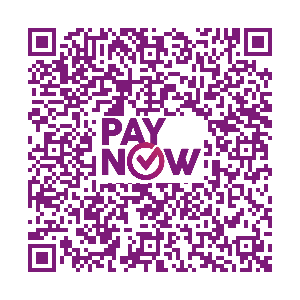
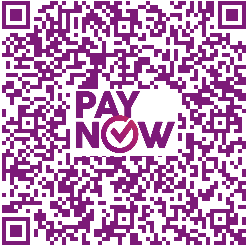
Updated QR Codes
Updated Blossom Seeds Logo
Updated slideshow images
Updated YouTube videos
Improved the UI of tab navigation

diff --git a/src/components/story/story.vue b/src/components/story/story.vue
@@ -28,7 +28,20 @@
         >
 
         <!-- Slides with image only -->
-        <b-carousel-slide img-src="https://i.imgur.com/S4v6lZE.jpg"><p>President Halimah Yacob handing out masks to Blossom Seeds' beneficiaries, supported by Youth Corps Singapore</p></b-carousel-slide>
+        <b-carousel-slide img-src="https://i.imgur.com/IsIjeE9.jpg"><p>President Halimah engaging in small talk with beneficiaries</p></b-carousel-slide>
+        <b-carousel-slide img-src="https://i.imgur.com/TF8SwHM.jpg"></b-carousel-slide>
+        <b-carousel-slide img-src="https://i.imgur.com/FlQADY7.jpg"></b-carousel-slide>
+        <b-carousel-slide img-src="https://i.imgur.com/ByqJdCj.jpg"></b-carousel-slide>
+        <b-carousel-slide img-src="https://i.imgur.com/iaBREnTh.jpg"></b-carousel-slide>
+        <b-carousel-slide img-src="https://i.imgur.com/gXXzZ4Gh.jpg"></b-carousel-slide>
+        <b-carousel-slide img-src="https://i.imgur.com/stkcyfmh.jpg"></b-carousel-slide>
+        <b-carousel-slide img-src="https://i.imgur.com/6los8pfh.jpg"></b-carousel-slide>
+        <b-carousel-slide img-src="https://i.imgur.com/INAQ2mEh.jpg"></b-carousel-slide>
+        <b-carousel-slide img-src="https://i.imgur.com/LudW996h.jpg"></b-carousel-slide>
+        <b-carousel-slide img-src="https://i.imgur.com/Zn2SFtbh.jpg"></b-carousel-slide>
+        <b-carousel-slide img-src="https://i.imgur.com/bWPWD57h.jpg"></b-carousel-slide>
+        <b-carousel-slide img-src="https://i.imgur.com/cGR94SKh.jpg"></b-carousel-slide>
+        <!-- <b-carousel-slide img-src="https://i.imgur.com/S4v6lZE.jpg"><p>President Halimah Yacob handing out masks to Blossom Seeds' beneficiaries, supported by Youth Corps Singapore</p></b-carousel-slide>
         <b-carousel-slide img-src="https://i.imgur.com/774NWHz.jpg"><p>Beneficiary expressing gratitude to President Halimah for the gift of masks</p></b-carousel-slide>
         <b-carousel-slide img-src="https://i.imgur.com/9lZqaji.jpg"><p>Blossom Seeds Volunteers taking a selfie with President Halimah</p></b-carousel-slide>
         <b-carousel-slide img-src="https://i.imgur.com/tV50WJ8.jpg"><p>Group photo of Youth Corps Singapore members who came to help out</p></b-carousel-slide>
@@ -36,7 +49,7 @@
         <b-carousel-slide img-src="https://i.imgur.com/aNYWmzy.jpg"><p>Senior Management express heartfelt gratitude to President Halimah for gracing the event</p></b-carousel-slide>
         <b-carousel-slide img-src="https://i.imgur.com/MFQNaBN.jpg"><p>President Halimah engaging in small talk with beneficiaries</p></b-carousel-slide>
         <b-carousel-slide img-src="https://i.imgur.com/Kwjulno.jpg"><p>Blossom Seeds celebrates the successful handing out of masks to the elderly</p></b-carousel-slide>
-        <b-carousel-slide img-src="https://i.imgur.com/kRqqgVW.jpg"><p>Distribution of daily necessities by the community to the the elderly</p></b-carousel-slide>
+        <b-carousel-slide img-src="https://i.imgur.com/kRqqgVW.jpg"><p>Distribution of daily necessities by the community to the the elderly</p></b-carousel-slide> -->
         </b-carousel>
       </div>
         <div id="GOH">
@@ -79,7 +92,11 @@
         <div id='title'>Our Story<br>
         <img src='../../assets/3dscia.com.url.png' id = 'underline'></div>
         <div id='video'>
-          <!-- <iframe id="videoiframe" width="80%" src="https://www.youtube.com/embed/23riEOmDOgM" frameborder="0" allowfullscreen></iframe> -->
+          <!-- Note: Video should be preprocessed for streaming: https://superuser.com/a/438471/462430 -->
+          <!-- <iframe src="https://drive.google.com/file/d/11Sa--vhcddjtZyXt8foKdDXnfLK4EJK2/preview" width="640" height="480"></iframe> -->
+          <!-- <iframe id="videoiframe" width="560" height="315" src="https://www.youtube.com/embed/gYQUVp47gZs" frameborder="0" allow="accelerometer; autoplay; encrypted-media; gyroscope; picture-in-picture" allowfullscreen></iframe> -->
+          <!-- <iframe id="videoiframe" width="560" height="315" src="https://www.youtube.com/embed/E86ygqR79lU" frameborder="0" allow="accelerometer; autoplay; encrypted-media; gyroscope; picture-in-picture" allowfullscreen></iframe> -->
+          <iframe width="560" height="315" src="https://www.youtube.com/embed/videoseries?list=PL7lDpUpxcvmUhW1Wru1BByUkX_wknoRFV" frameborder="0" allow="accelerometer; autoplay; encrypted-media; gyroscope; picture-in-picture" allowfullscreen></iframe>
         </div>
       </div>
       <div id='descriptions'>
@@ -155,12 +172,13 @@ export default {
   //   source code & deploy again, rather than using JavaScript on client's
   //   browser to recompute the video src.
   // mounted: function () {
-  //   var now = new Date();
+  //   // var now = new Date();
   //   // //Change the date here, add more dates if required
-  //   var deadline = new Date("August 20, 2020 00:00:00");
-  //   if (now.valueOf() >= deadline.valueOf()) {
+  //   // var deadline = new Date("August 20, 2020 00:00:00");
+  //   // if (now.valueOf() >= deadline.valueOf()) {
+  //   if (Math.random() > 0.5) {
   //     var videoIframeTag = document.getElementById("videoiframe");
-  //     videoIframeTag.src = "https://www.youtube.com/embed/23riEOmDOgM";
+  //     videoIframeTag.src = "https://www.youtube.com/embed/E86ygqR79lU";
   //   }
   // },
 }
@@ -264,7 +282,7 @@ a {
   position: relative;
   width: 100%;
   height: 0;
-  padding-bottom: 56.25%; /* The height of the item will now be 56.25% of the width. */
+  padding-bottom: 45%;
 }
 #video iframe {
   position: absolute;

diff --git a/src/components/Navbar.vue b/src/components/Navbar.vue
@@ -1,13 +1,15 @@
 <template>
     <div class="headerStyle">
-        <nav>
-            <img alt="Blossom Seeds Logo" src="../assets/blossom-logo.png" width="200" height="172">
-            <div class="header-tabs">
-                <span class="header-tab"><router-link to="/story"><a>Our Story</a></router-link></span>            
-                <span class="header-tab" id='donate'><router-link to="/donate"><a>Donate</a></router-link></span>
-                <span class="header-tab"><router-link to="/contact"><a>Contact Us</a></router-link></span>
-            </div>
-        </nav>
+        <img id="logo" alt="Blossom Seeds Logo" src="../assets/blossom-logo.png" />
+        <div id="header-nav">
+            <nav>
+                <div class="header-tabs">
+                    <span class="header-tab"><router-link to="/story"><a>Our Story</a></router-link></span>
+                    <span class="header-tab"><router-link to="/donate"><a>Donate</a></router-link></span>
+                    <span class="header-tab"><router-link to="/contact"><a>Contact Us</a></router-link></span>
+                </div>
+            </nav>
+        </div>
     </div>
 </template>
 
@@ -25,21 +27,33 @@ export default {
 .headerStyle {
     overflow: hidden;
     background: lightgray;
-    padding: 20px;
+    padding: 3%;
     text-align: center;
     align-content: center;
     padding-bottom: 10px;
 }
 
-img {
-    float: left;
+#header-nav {
+    vertical-align: bottom;
 }
 
-/** header tabs */
-span {
-    padding: 3%;
-    padding-top: 70px;
-    display: inline-block;
+.header-tabs {
+    margin: auto;
+    width: 70%;
+    transform: translate(15%, 0%);
+    vertical-align: bottom;
+    /* border: 3px solid green; */
+    padding: 10px;
+}
+
+.header-tab {
+    padding-left: 5%;
+    padding-right: 5%;
+}
+
+#logo {
+    float: left;
+    width: 15%;
 }
 
 a {

diff --git a/src/components/donate/options.vue b/src/components/donate/options.vue
@@ -6,9 +6,10 @@
         <div id="options">
             <nav>
                 <div class="donation-tabs">
-                    <span class="donation-tab"><router-link to="/paynow"><a>PayNow</a></router-link></span>            
-                    <span class="donation-tab"><router-link to="/grabpay"><a>GrabPay</a></router-link></span>
+                    <span class="donation-tab"><router-link to="/paynow"><a>PayNow</a></router-link></span>
                     <span class="donation-tab"><router-link to="/favepay"><a>favePay</a></router-link></span>
+                    <span class="donation-tab"><router-link to="/ezlink"><a>EZ-Link</a></router-link></span>
+                    <span class="donation-tab"><router-link to="/wechat"><a>WeChat</a></router-link></span>
                     <span class="donation-tab"><a href='https://www.giving.sg/blossom-seeds-limited_6157389/journeymadepossible' target="_blank">Giving.sg</a></span>
                     <span class="donation-tab"><a href='https://secure.squarespace.com/checkout/donate?donatePageId=5ccbf66f9140b7ce1e9e94fc&ss_cid=46c03cf4-3d07-4a4a-9cab-ddc1c147716f&ss_cvisit=1589423561448&ss_cvr=5cc08caf-51d7-4849-8a1e-63f96f22400e%7C1549025908366%7C1589421114627%7C1589423560794%7C284' target="_blank">
                     All major credit cards^</a></span>

diff --git a/src/routes.js b/src/routes.js
@@ -2,15 +2,17 @@ import contact from './components/contact/contact.vue';
 import donate from './components/donate/donate.vue';
 import story from './components/story/story.vue';
 import paynow from './components/donate/paynow.vue';
-import grabpay from './components/donate/grabpay.vue';
 import favepay from './components/donate/favepay.vue';
+import ezlink from './components/donate/ezlink.vue';
+import wechat from './components/donate/wechat.vue';
 
 export const routes = [
     { path: "/", redirect: "/story" },
     { path: '/contact', component: contact },
     { path: '/donate', component: donate },
     { path: '/story', component: story },
-    { path:'/paynow', component: paynow },
-    { path:'/grabpay', component: grabpay },
-    { path:'/favepay', component: favepay },
+    { path: '/paynow', component: paynow },
+    { path: '/favepay', component: favepay },
+    { path: '/ezlink', component: ezlink },
+    { path: '/wechat', component: wechat },
 ];

diff --git a/src/components/donate/ezlink.vue b/src/components/donate/ezlink.vue
@@ -1,10 +1,10 @@
 <template>
-  <div class="favePay">
+  <div class="ezlink">
     <div class="QRcode">
-        <div id="title">favePay</div>
+        <div id="title">EZ-Link</div>
     </div>
     <div id="QR">
-        <img alt="favePay QR code" src="../../assets/favepay.png">
+        <img alt="EZ-Link QR code" src="../../assets/ezlink.png">
     </div>
     <div class="rebate">
         <div id="title">Tax Rebate</div>
@@ -18,7 +18,7 @@
 <script>
 export default {
   name: 'App',
-  display:"favePay",
+  display:"EZ-Link",
   props: {
     msg: String
   },
@@ -70,13 +70,12 @@ a {
   color: #42b983;
 }
 
-.favePay {
-  background-color: #ebebeb;
-}
-
 a:hover {
   text-decoration: none;
   color:#428e83;
+}
+.ezlink {
+  background-color: #ebebeb;
 }
 
 #rebateInfo {

diff --git a/src/components/donate/wechat.vue b/src/components/donate/wechat.vue
@@ -1,10 +1,10 @@
 <template>
-  <div class="favePay">
+  <div class="wechat">
     <div class="QRcode">
-        <div id="title">favePay</div>
+        <div id="title">WeChat</div>
     </div>
     <div id="QR">
-        <img alt="favePay QR code" src="../../assets/favepay.png">
+        <img alt="WeChat QR code" src="../../assets/wechat.png">
     </div>
     <div class="rebate">
         <div id="title">Tax Rebate</div>
@@ -18,7 +18,7 @@
 <script>
 export default {
   name: 'App',
-  display:"favePay",
+  display:"WeChat",
   props: {
     msg: String
   },
@@ -70,13 +70,12 @@ a {
   color: #42b983;
 }
 
-.favePay {
-  background-color: #ebebeb;
-}
-
 a:hover {
   text-decoration: none;
   color:#428e83;
+}
+.wechat {
+  background-color: #ebebeb;
 }
 
 #rebateInfo {
